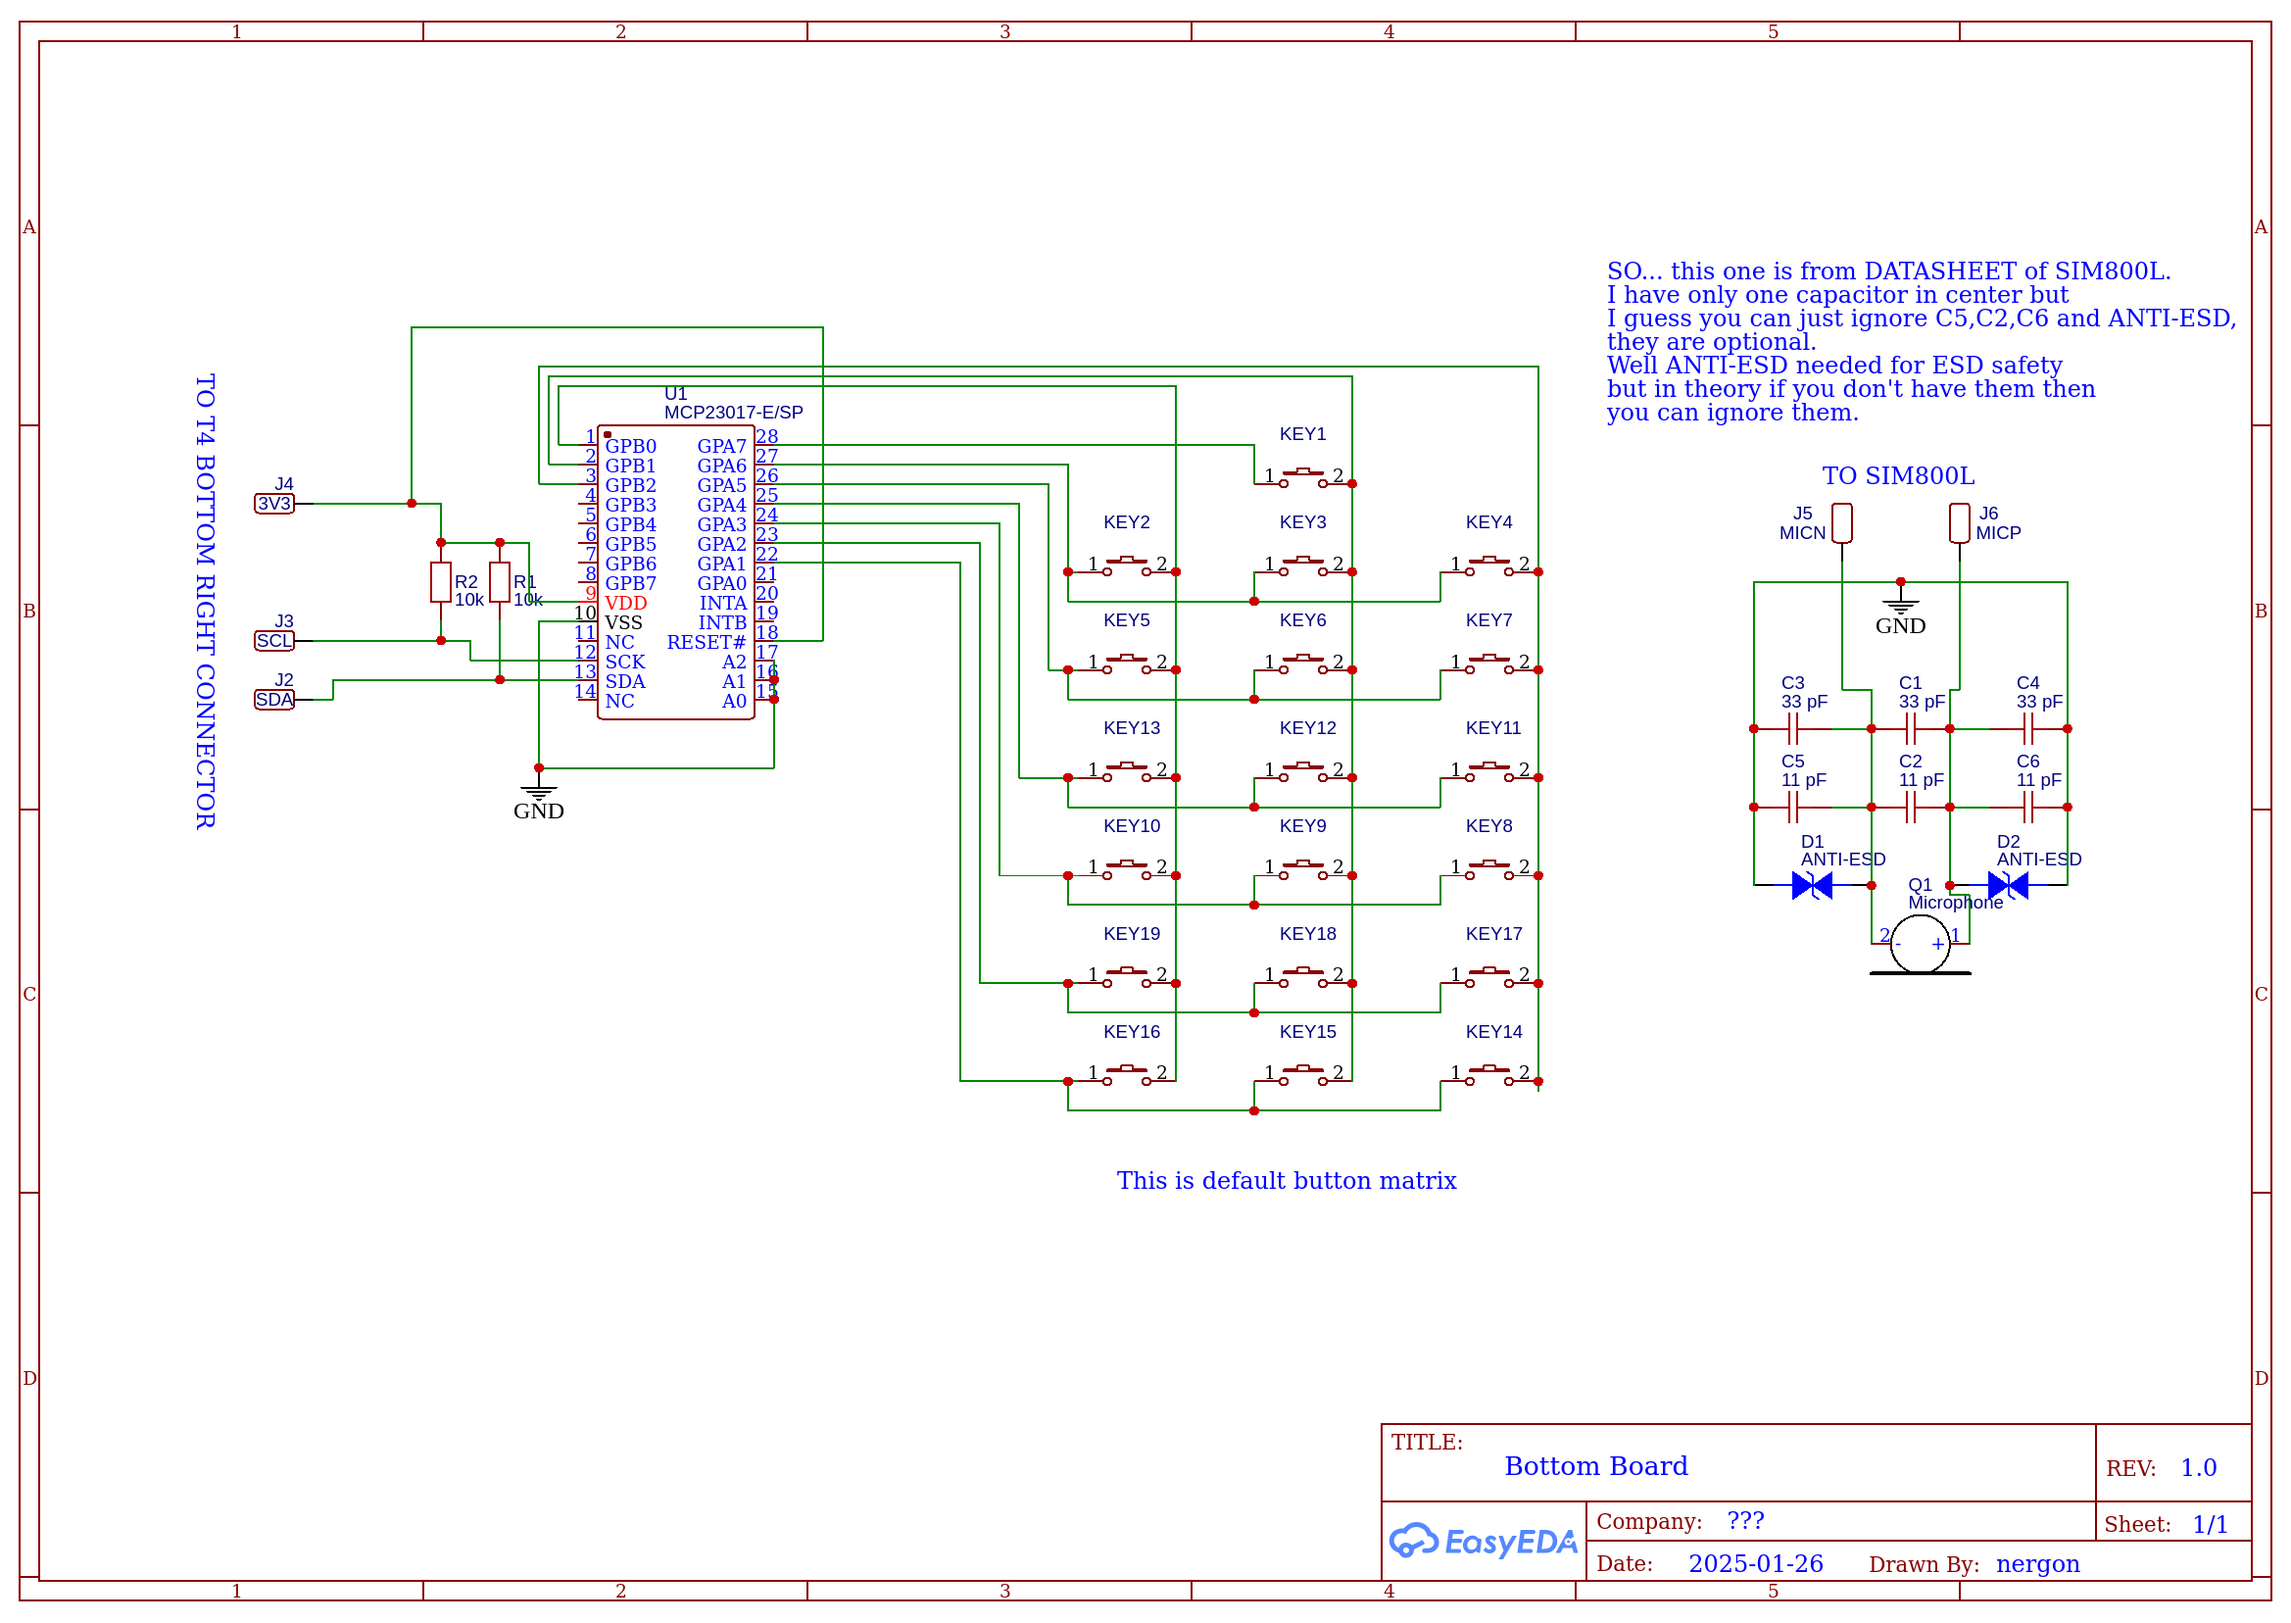
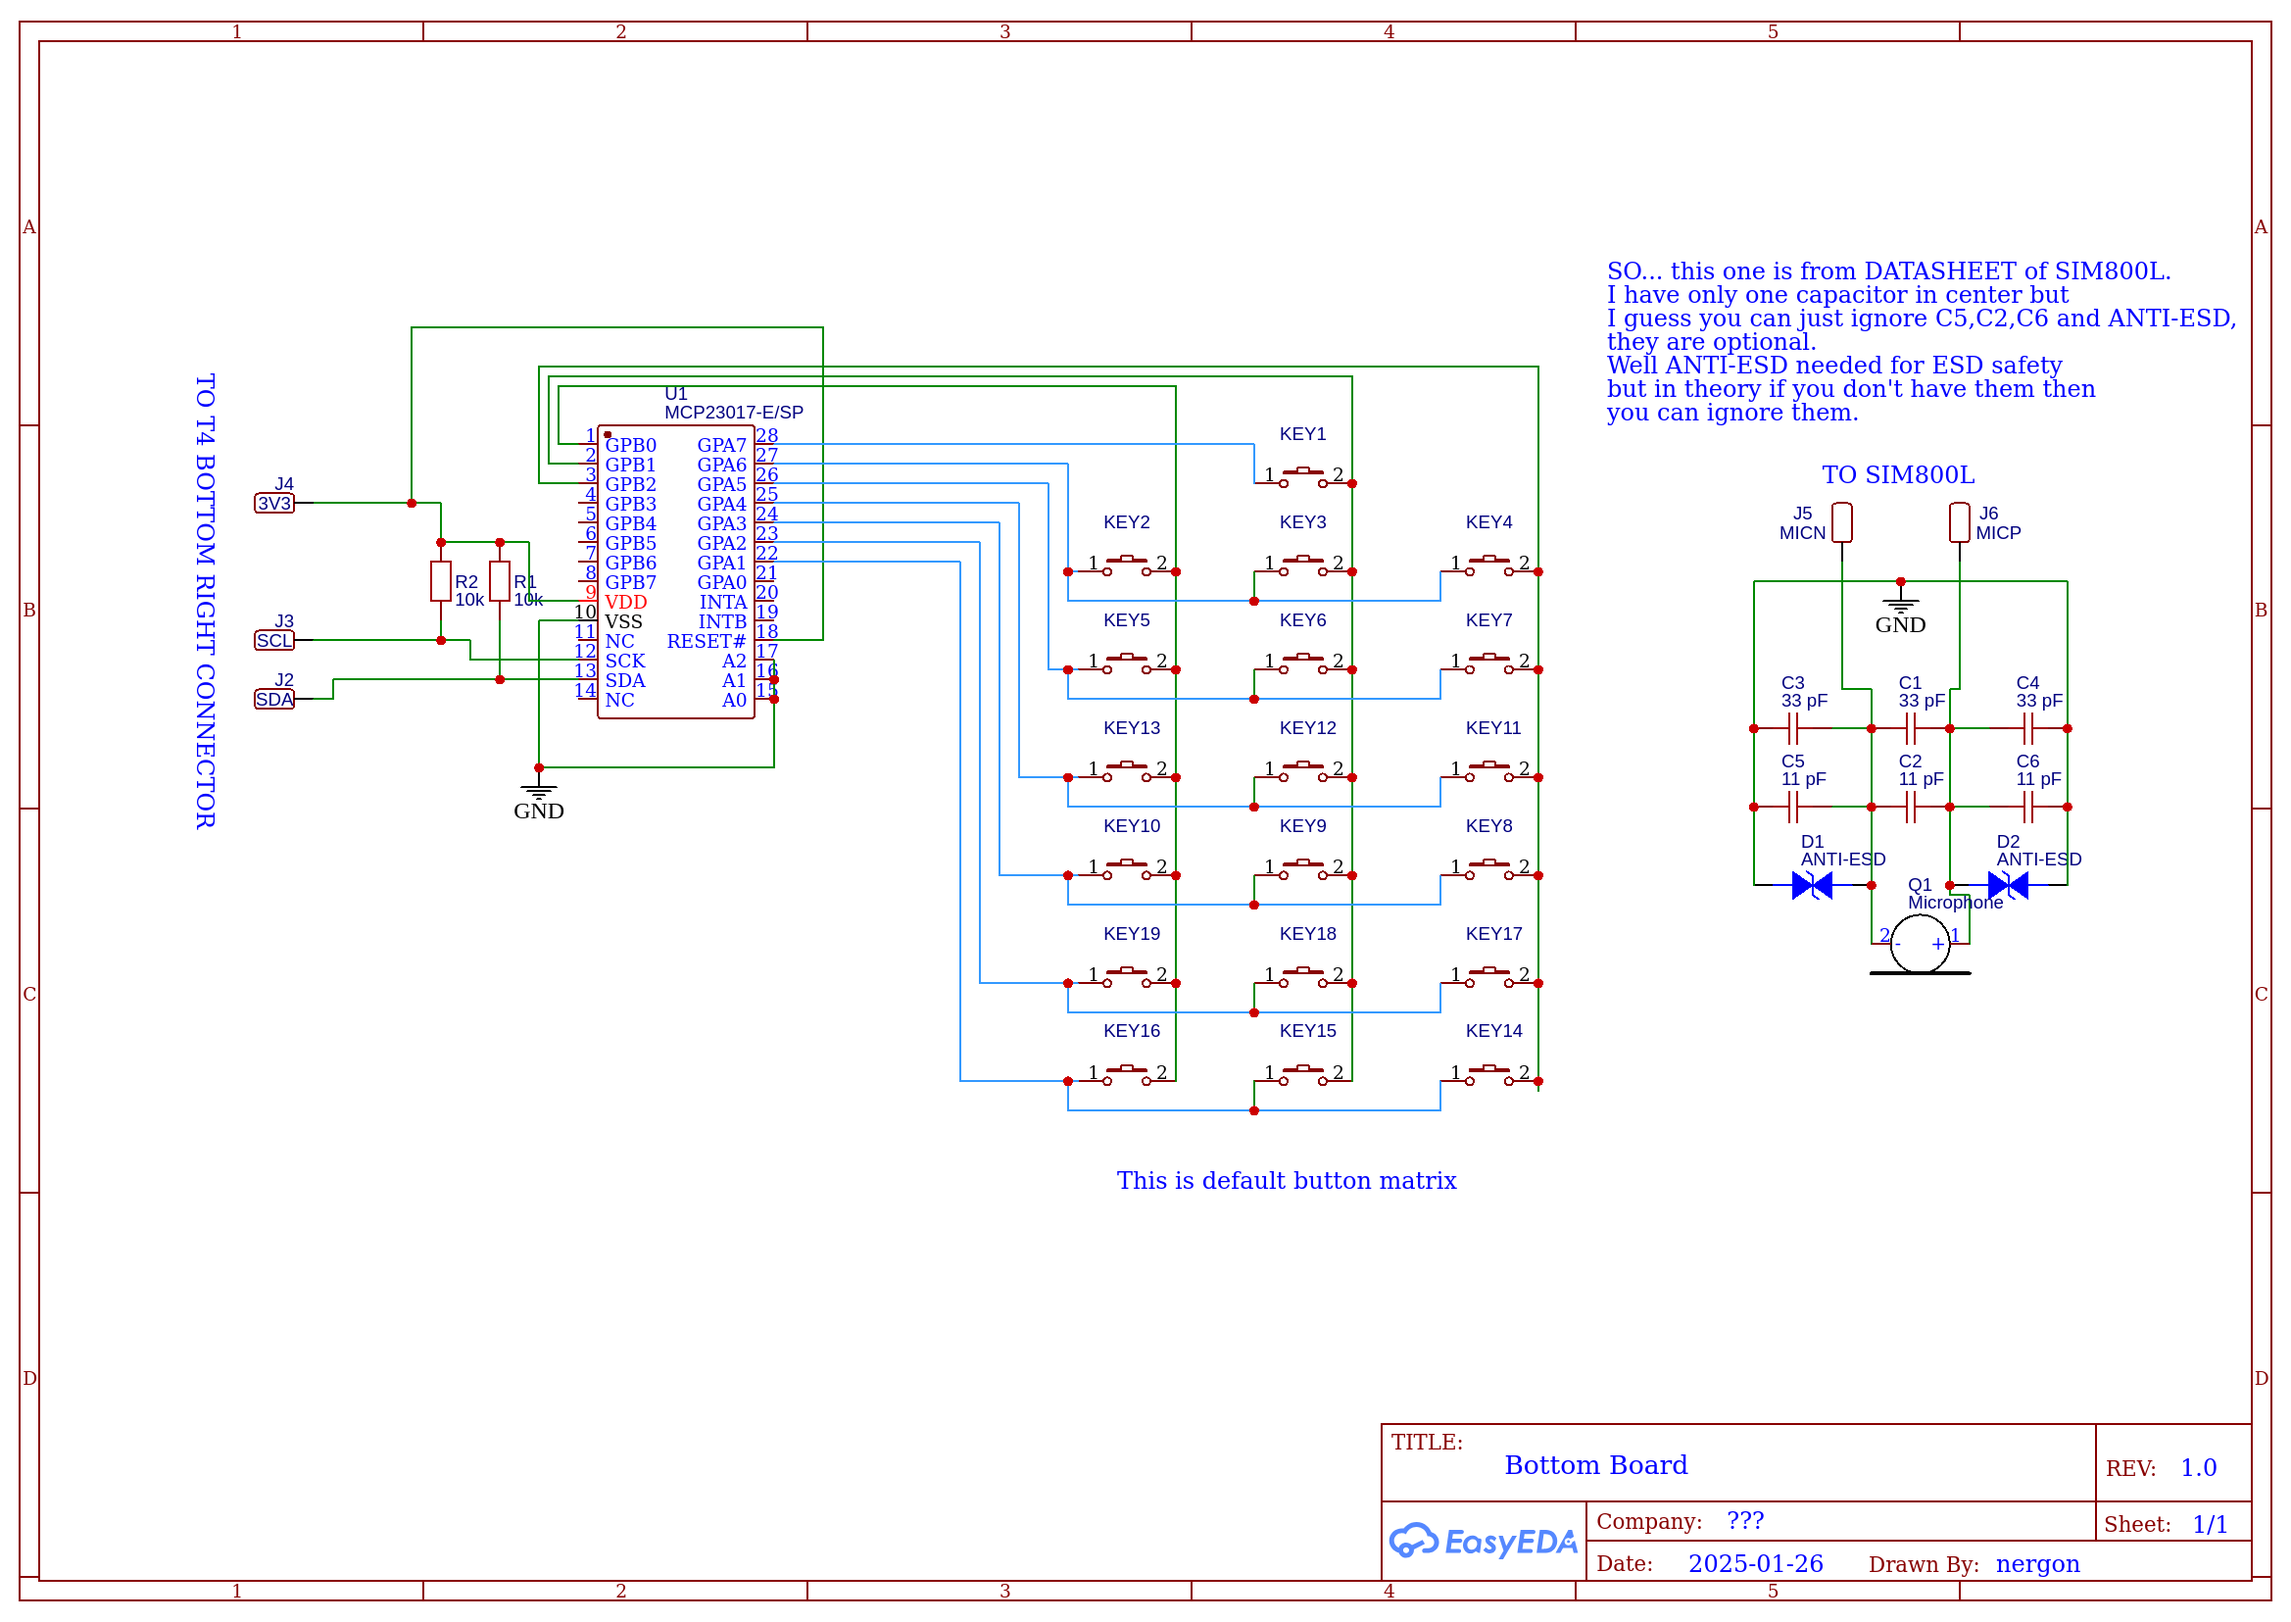
Markdown Update 2

diff --git a/DEVBUILD.MD b/DEVBUILD.MD
@@ -45,14 +45,60 @@ You need following components to build same device that I have.
 2.  5x7 CM Universal Prototype one-sided board 
 3.  19 buttons (I use 6x6mm tact switchs)
 4.  SIM800L (It wouldn't work in countries where 2G network no longer available)
-5.  MicroSD card (I guess any size from like 16 MB,though I never seen microsd card with capacity less then 1 GB. I use 16 GB. [Official documentation of ESP32 says this thing have support up to 2TB sdcard](https://docs.espressif.com/projects/esp-faq/en/latest/software-framework/peripherals/sdio.html#what-is-the-maximum-capacity-for-esp32-sd-card))
-6.  MCP23017 IC and 2 resistors anywhere from 4.7k to 10k (I use 10k)
-7. 3.7V mobile Li-Ion Battery (I use default Nokia's BL-5C battery)
+5.  MicroSD card (I guess any size from like 16 MB,though I never seen microsd card with capacity less then 1 GB. I use 16 GB. [Official documentation of ESP32 says that this thing have support up to 2TB sdcard](https://docs.espressif.com/projects/esp-faq/en/latest/software-framework/peripherals/sdio.html#what-is-the-maximum-capacity-for-esp32-sd-card))
+6.  MCP23017 IC DIP and 2 resistors anywhere from 4.7k to 10k (I use 10k)
+7. 3.7V mobile Li-Ion Battery (I use Nokia's BL-5C battery)
 8. Wires
 9. Soldering iron, solder,flux and other tools for assemble.
 10. Small mobile speaker 8 Ohm or 32 Ohm (I'm actually not sure, but in theory both should work. I use 8 Ohm)
 11. Capacitors (3 pcs of 33pF)
 12. Electret Microphone
-
+13. MicroUsb Cable (for charging and uploading firmware)
+### Device assembly
 	
- ![Bottom_Board](./GHRES/Bottom_Board.png "Bottom Board")
+ ![Bottom Board](./GHRES/Bottom_Board.png "Bottom Board")
+
+Take a look at this schematic that I made.
+Sorry for background being white.
+
+![Terrible Keyboard](./GHRES/terrible_keyboard.jpg "Terrible Keyboard")
+
+There is no need to build keyboard this terrible. Maybe you'll do better job.
+
+So placement of IC MCP23017 should be like on picture (Or whatever, there no real difference where you'll put it just do wiring properly, according to schematic)
+
+![Cables](./GHRES/Cables.png)
+
+And connect bottom board to T4 board using  I2C cable that comes with T4 board.
+
+![T4 I2C](./GHRES/T4I2C.png)
+
+Look carefully where which pin is located
+(It's actually written under port itself)
+
+If you successfully connected Bottom board to T4 through I2C, proceed to next step.
+
+Connecting SIM800L to board
+
+![T4 SIM800L](./GHRES/T4_SIM800L.png)
+
+![SIM800LT4](./GHRES/SIM800LT4.png)
+
+When you connected SIM800L to board then time to solder the battery!
+
+As I said in disclaimer and near disclamer and everywhere
+
+__BE CAREFUL, BATTERIES ARE DANGEROUS__
+
+solder red wire to + 
+
+solder black wire to -
+
+It's recommended to look for online tutorial how to solder them.
+
+That's seems to be everything
+
+Thank you for reading
+
+If you have any questions problems and etc.
+see Contact info at [README/Contact](./README.md#contact)
